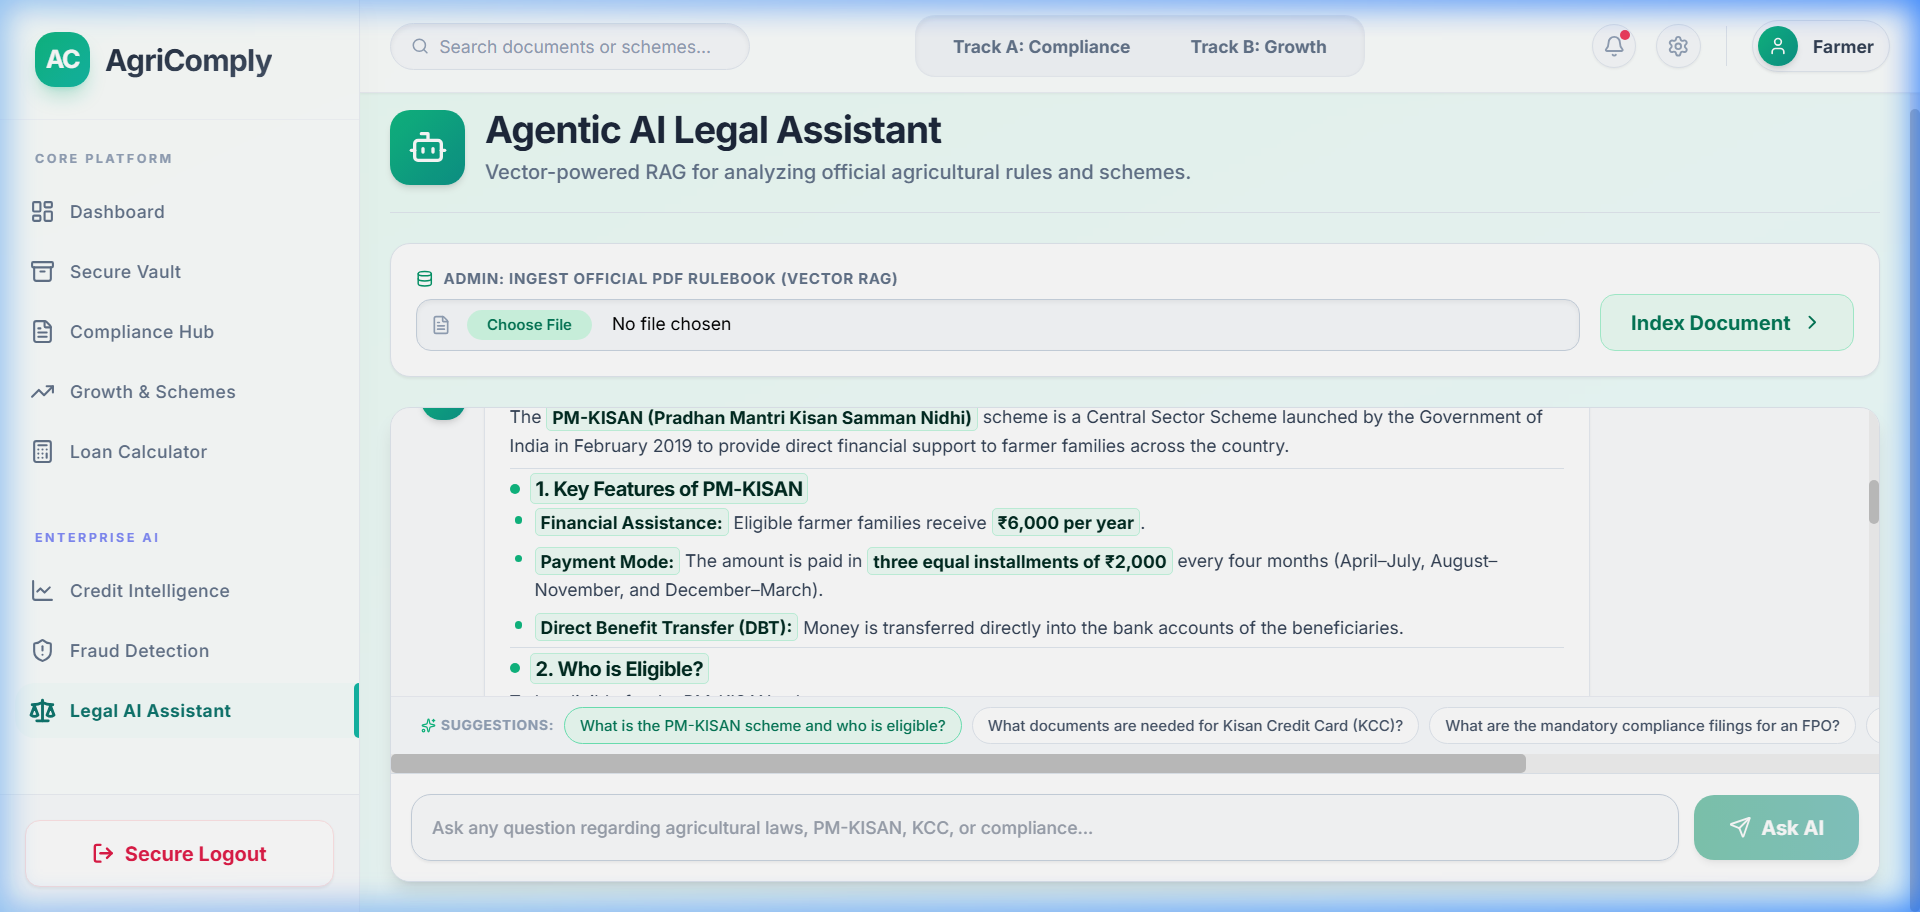
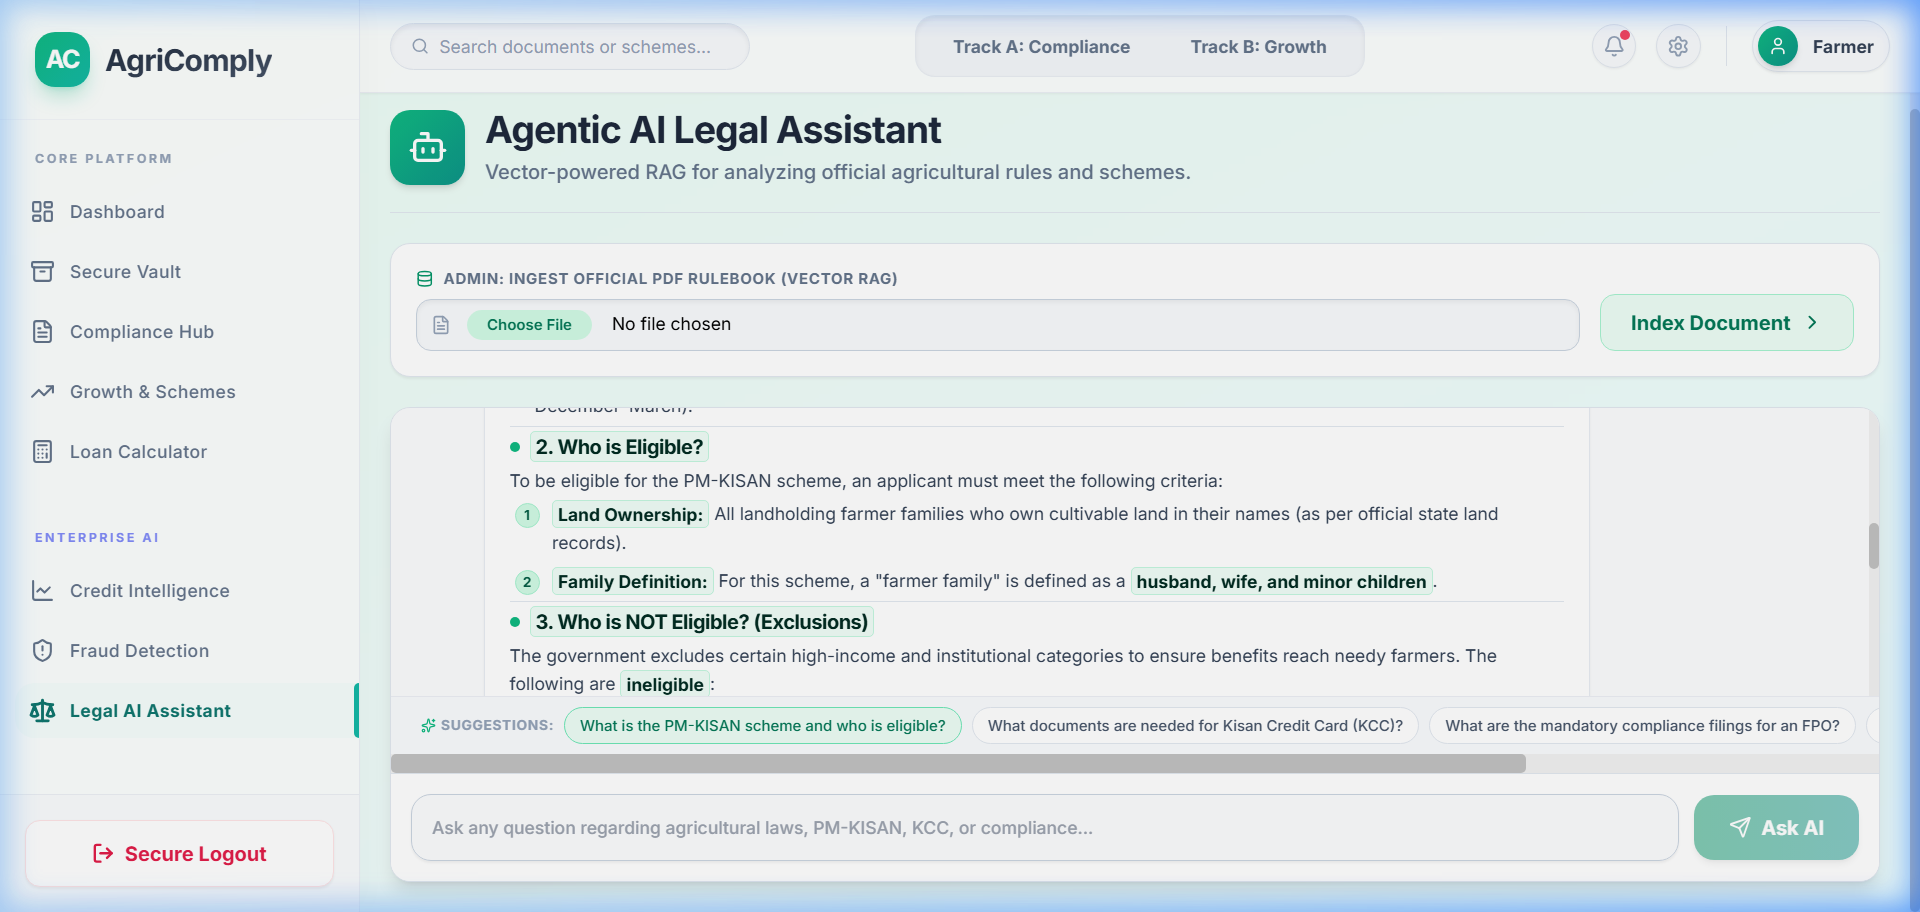
docs: update README screenshot for Legal AI Assistant with clean markdown rendering

Changed region(s): [[0.25, 0.4298, 0.7812, 0.7675], [0.9688, 0.5219, 1.0, 0.614], [0.2188, 0.4298, 0.25, 0.4605]]

diff --git a/client/src/components/common/MarkdownRenderer.jsx b/client/src/components/common/MarkdownRenderer.jsx
@@ -112,7 +112,21 @@ export default function MarkdownRenderer({ content, className = '' }) {
       continue;
     }
 
-    // 3. Headings (###, ##, #)
+    // 3. Headings (####, ###, ##, #)
+    if (trimmed.startsWith('#### ')) {
+      const headingText = trimmed.replace(/^####\s+/, '');
+      elements.push(
+        <div key={`h4-${lineIdx}`} className="mt-3.5 mb-1.5 flex items-center gap-1.5">
+          <div className="w-1.5 h-1.5 rounded-full bg-teal-500"></div>
+          <h5 className="text-sm font-extrabold text-slate-800 tracking-tight">
+            {parseInline(headingText)}
+          </h5>
+        </div>
+      );
+      lineIdx++;
+      continue;
+    }
+
     if (trimmed.startsWith('### ')) {
       const headingText = trimmed.replace(/^###\s+/, '');
       elements.push(
